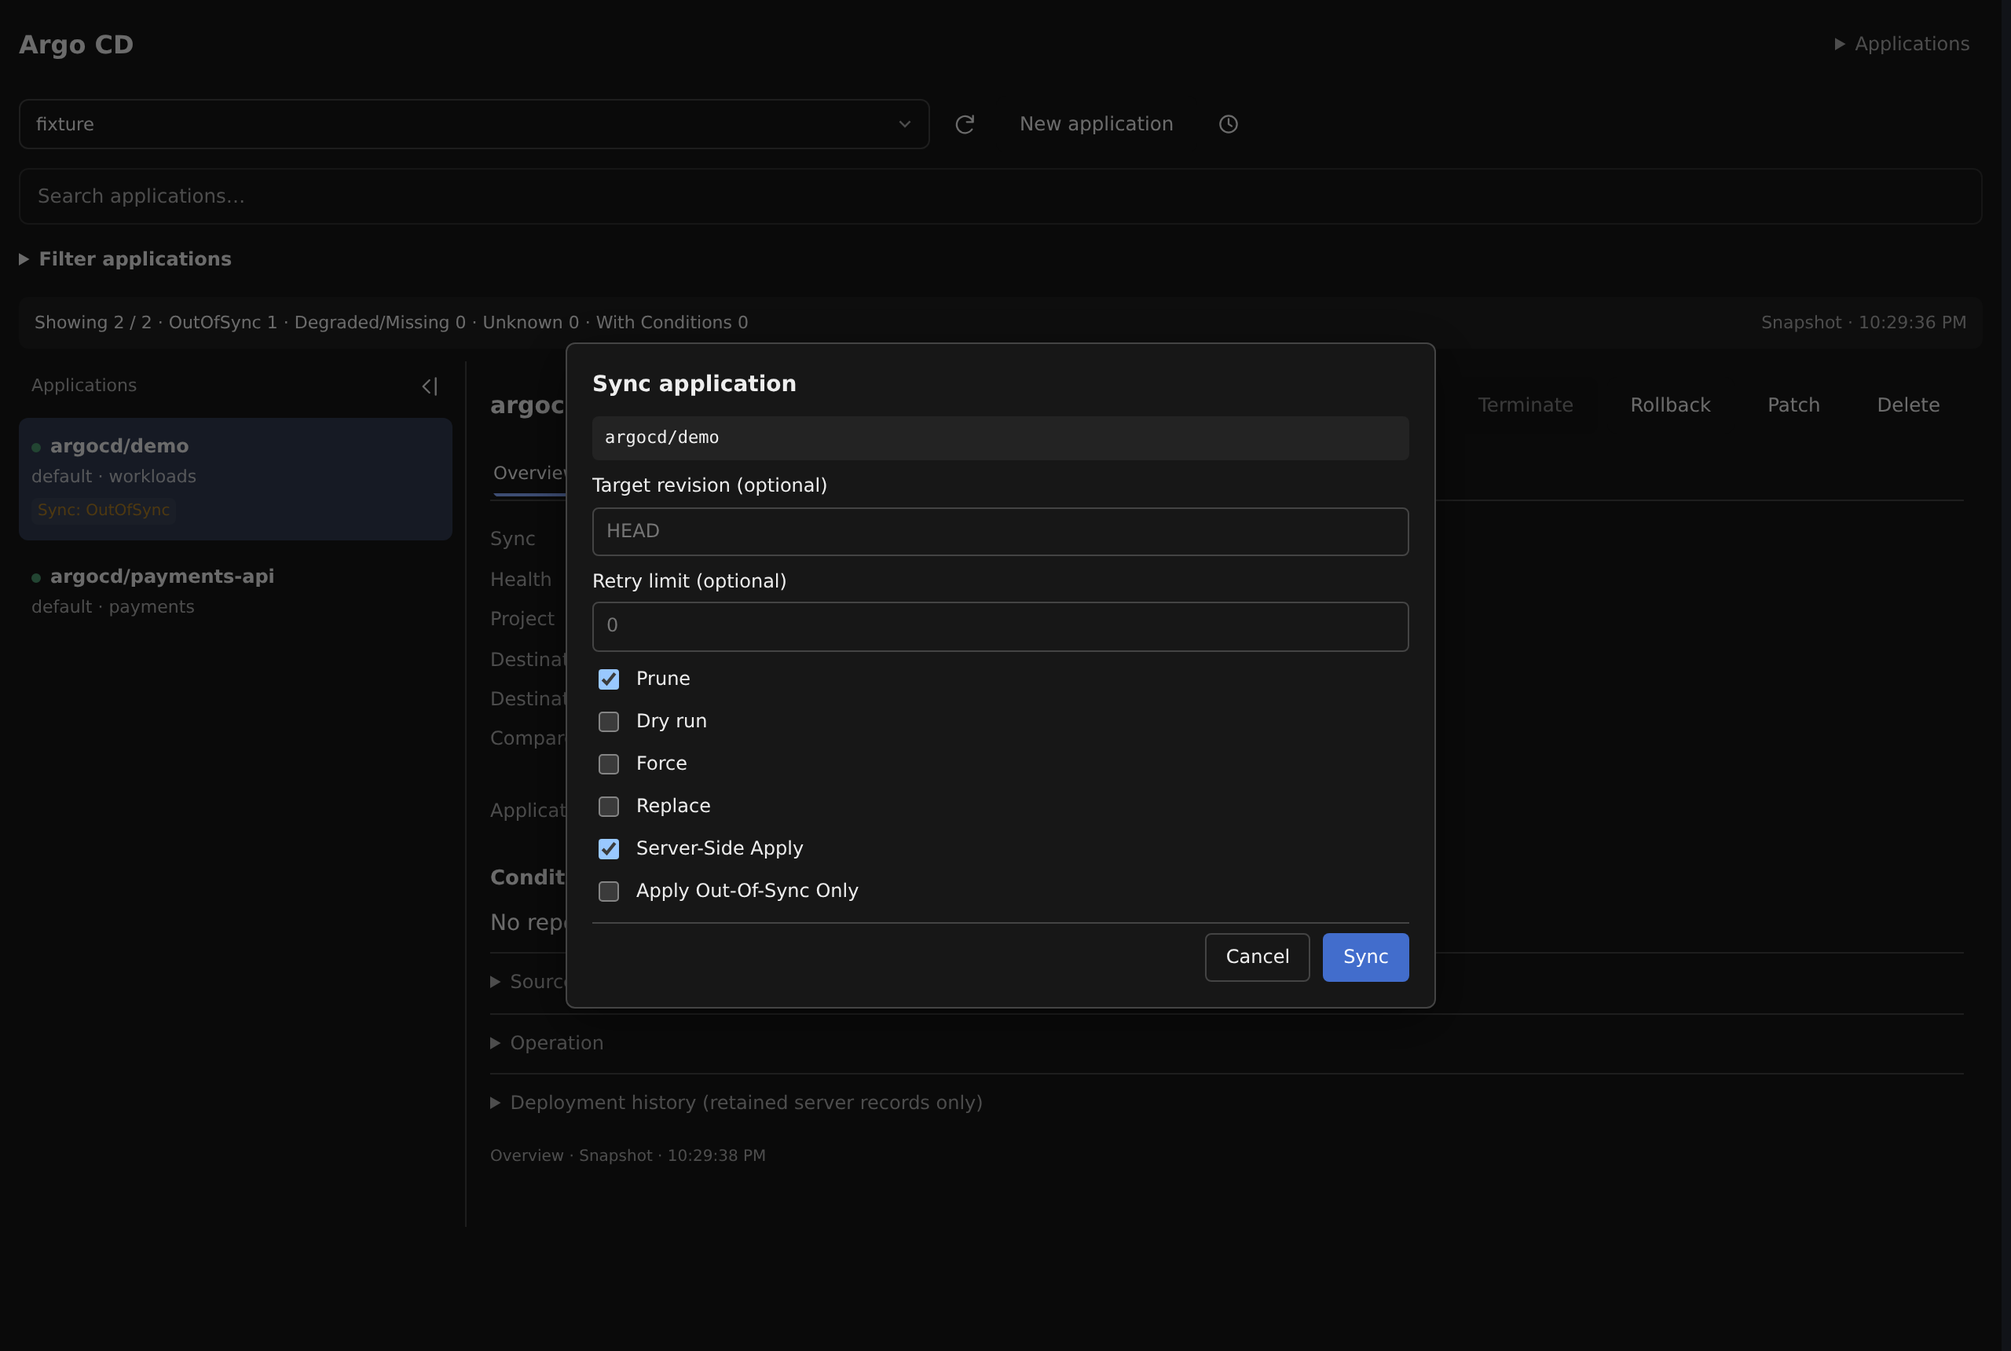
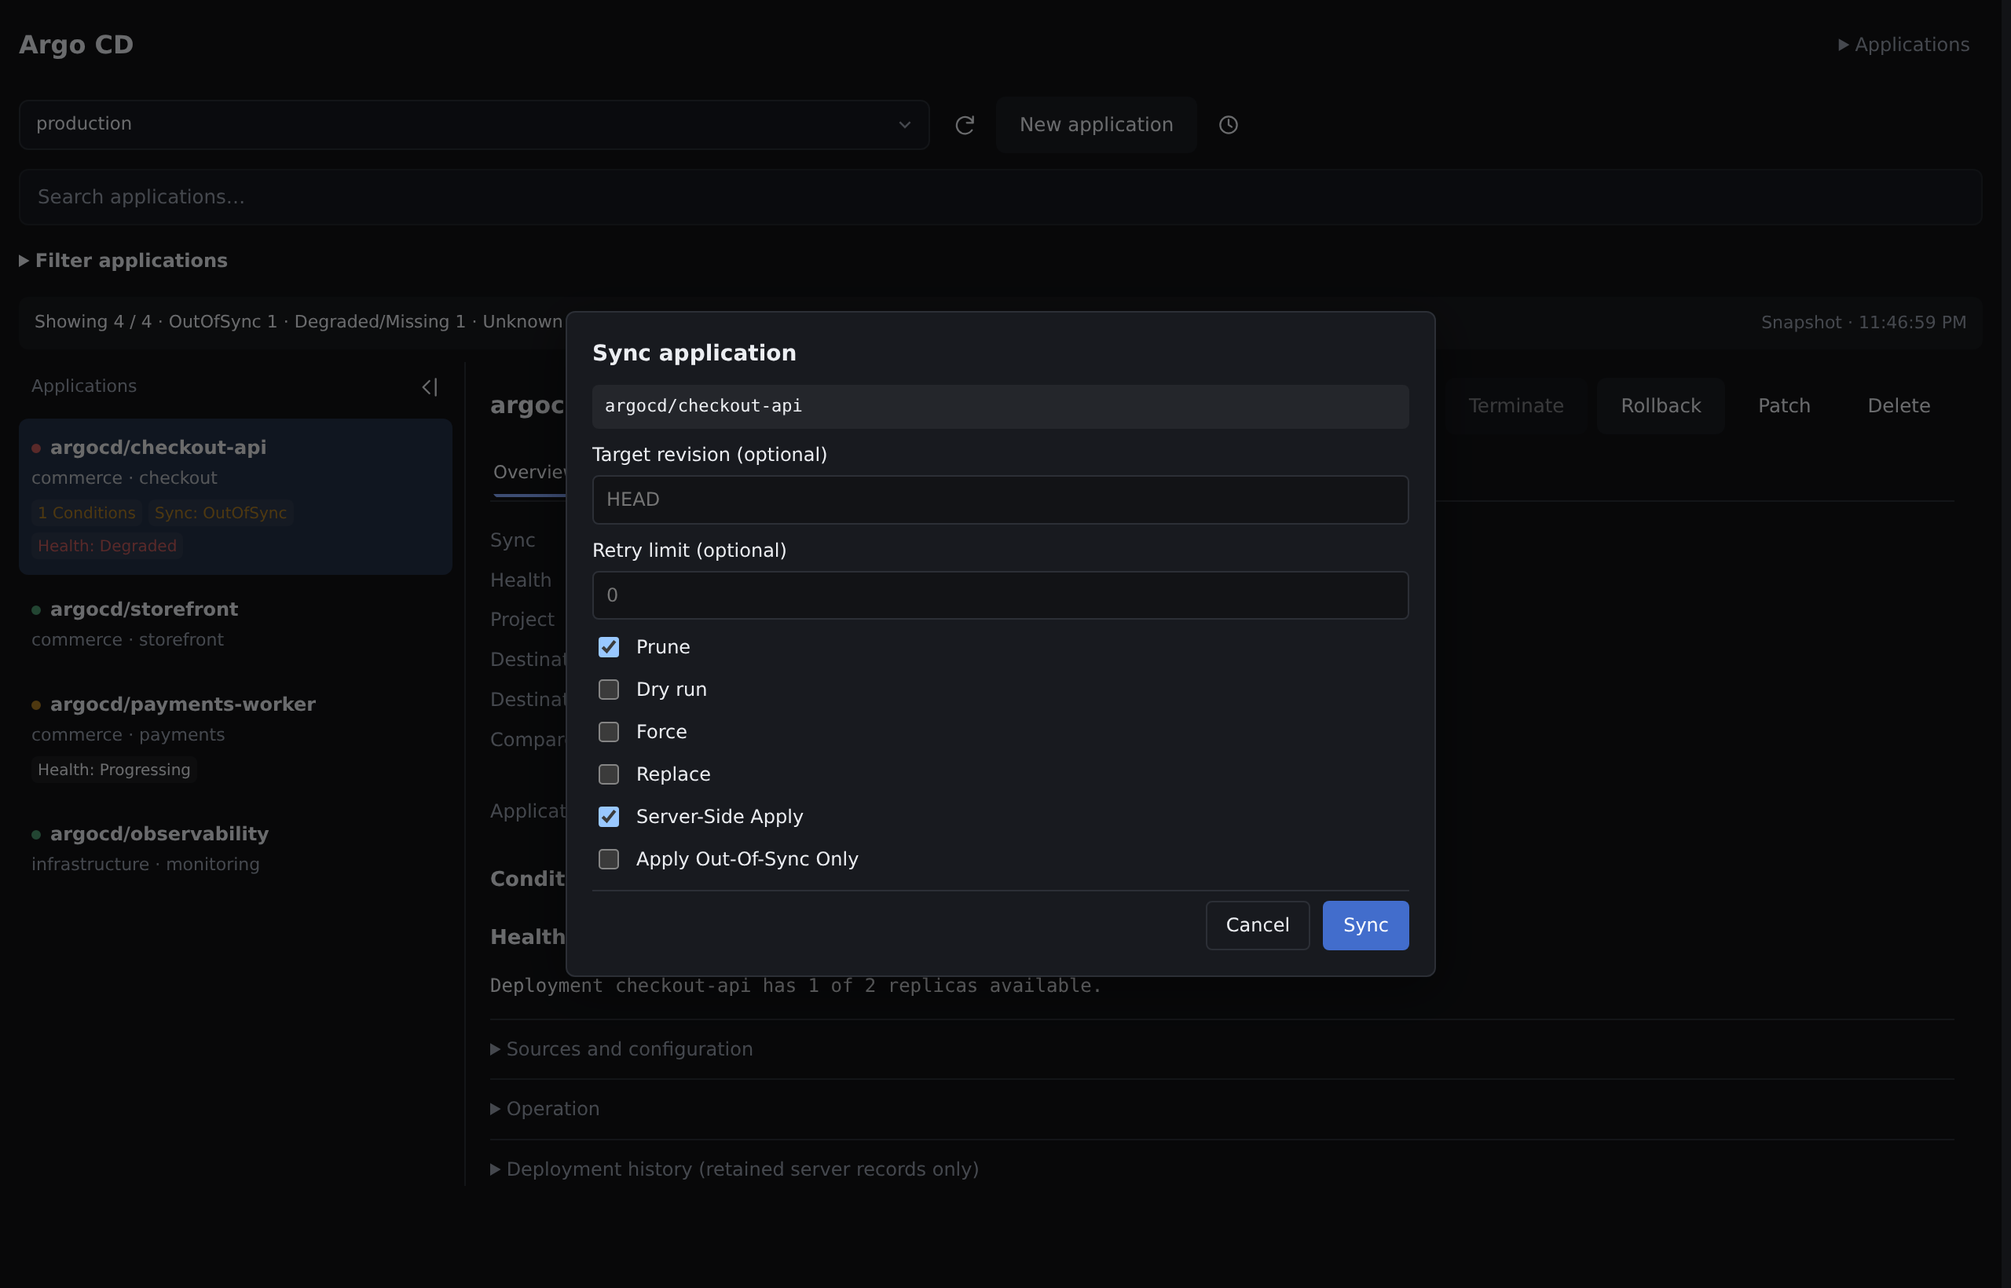
Release openchamber-argocd 1.3.0

diff --git a/scripts/release.ts b/scripts/release.ts
@@ -3,7 +3,7 @@ import { dirname, join, resolve } from 'node:path';
 import { parseManifestJson } from '@openchamber/sdk/schemas';
 import { zipFiles, readReleaseZip } from './archive.js';
 
-export const RELEASE_FILES = ['README.md', 'docs/README.de.md', 'docs/README.fr.md', 'docs/README.nl.md', 'docs/README.zh-CN.md', 'docs/README.zh-TW.md', 'docs/README.uk.md', 'docs/README.es.md', 'docs/README.pt-BR.md', 'docs/README.ko.md', 'docs/README.pl.md', 'docs/README.ja.md', 'docs/README.tr.md', 'docs/README.ar.md', 'docs/README.he.md', 'LICENSE', 'plan.md', 'roadmap.md', 'docs/applications-desktop.png', 'docs/applications-mobile.png', 'docs/validation.md', 'docs/diff-semantics.md', 'docs/operations.md', 'docs/compatibility.md', 'panel/index.html', 'panel/argocd.svg', 'panel/style.css', 'panel/main.js', 'service/main.js', 'THIRD_PARTY_NOTICES.txt'] as const;
+export const RELEASE_FILES = ['README.md', 'docs/README.de.md', 'docs/README.fr.md', 'docs/README.nl.md', 'docs/README.zh-CN.md', 'docs/README.zh-TW.md', 'docs/README.uk.md', 'docs/README.es.md', 'docs/README.pt-BR.md', 'docs/README.ko.md', 'docs/README.pl.md', 'docs/README.ja.md', 'docs/README.tr.md', 'docs/README.ar.md', 'docs/README.he.md', 'LICENSE', 'plan.md', 'roadmap.md', 'docs/screenshots/01-applications-overview.png', 'docs/screenshots/02-sync-dialog.png', 'docs/screenshots/03-resource-actions.png', 'docs/screenshots/04-management.png', 'docs/validation.md', 'docs/diff-semantics.md', 'docs/operations.md', 'docs/compatibility.md', 'panel/index.html', 'panel/argocd.svg', 'panel/style.css', 'panel/main.js', 'service/main.js', 'THIRD_PARTY_NOTICES.txt'] as const;
 const forbidden = [/-----BEGIN [^-]*PRIVATE KEY-----/, /\beyJ[A-Za-z0-9_-]+\.[A-Za-z0-9_-]+\.[A-Za-z0-9_-]+\b/, /synthetic-original|synthetic-rotated|synthetic-argo-token|synthetic-host|smoke-test-only|hidden-values|hidden-parameter|hidden-inline|private-key-sentinel|secret-data-sentinel/];
 export function scanReleaseFile(name: string, bytes: Buffer): void {
   const text = bytes.toString('utf8');

diff --git a/tests/package-output.test.ts b/tests/package-output.test.ts
@@ -104,7 +104,7 @@ test('Git publishing validates committed assets before rebuilding and only prepa
 test('release preserves public package identity, version, description and stable extension panel ID', async () => {
   const { files, basename } = await assembleRelease(); const root = JSON.parse(await readFile('package.json', 'utf8'));
   const packaged = JSON.parse(files.get('package.json')!.toString());
-  assert.equal(basename, 'openchamber-argocd'); assert.equal(root.name, basename); assert.equal(root.version, '1.2.0'); assert.equal(root.private, false);
+  assert.equal(basename, 'openchamber-argocd'); assert.equal(root.name, basename); assert.equal(root.version, '1.3.0'); assert.equal(root.private, false);
   for (const key of ['name', 'version', 'private', 'description', 'license']) assert.deepEqual(packaged[key], root[key]);
   assert.match(root.description, /context switching.*application filtering.*logs.*events.*diffs/);
   assert.equal(packaged.openchamber.contributes.panel.id, 'argocd-observer');

diff --git a/docs/operations.md b/docs/operations.md
@@ -42,7 +42,7 @@ Operational actions are **enabled by default** (`Diagnostics.readOnly = false`) 
 
 ## Acceptance and authorization
 
-The package is **openchamber-argocd 1.2.0**, with private=false and the MIT license. This metadata does not imply npm publication, real host acceptance or production compatibility. Remote acceptance remains **human-agreed skip, not verified**, retained in these documents. The former release.json hash inventory is no longer generated; removing it does not turn build checks into real host acceptance.
+The package is **openchamber-argocd 1.3.0**, with private=false and the MIT license. This metadata does not imply npm publication, real host acceptance or production compatibility. Remote acceptance remains **human-agreed skip, not verified**, retained in these documents. The former release.json hash inventory is no longer generated; removing it does not turn build checks into real host acceptance.
 
 The user explicitly waived remote OpenChamber installation/update, outer authorization/approval, pause/uninstall, instance switching, and lifecycle acceptance. Record these as **human-agreed skip, not verified** and do not request a remote instance as a blocker. Other uncovered Argo/platform behaviors are not automatically waived.
 
@@ -68,7 +68,7 @@ There is no version/hash suffix, checksum sidecar or release.json hash inventory
 
 Existing hash-named historical directories/ZIPs/checksum files and unrelated dist content are **not** automatically deleted: an installed extension may still reference an old directory. After explicitly replacing that installation, an operator may separately remove unused historical outputs. The new build never creates more of them. Replacing files is not an automatic host re-enable/reinstall or a filesystem-wide atomic transaction.
 
-Exactly 31 allowlisted files ship in the directory/ZIP: minimal manifest, bundled JS, HTML/CSS/Argo SVG, seven English Markdown files, 14 translated README files, two English application screenshots (desktop and mobile), MIT LICENSE and runtime/icon notices. No source/tests/scripts/node_modules/config/credentials/logs ship in those outputs. Catalogs are bundled into JS. THIRD_PARTY_NOTICES.txt is generated at the repository root as well, so Git URL installs include dependency/icon licenses without a target build. The application's own license is MIT; see the separate LICENSE file.
+Exactly 33 allowlisted files ship in the directory/ZIP: minimal manifest, bundled JS, HTML/CSS/Argo SVG, seven English Markdown files, 14 translated README files, four English UI screenshots (applications overview, sync dialog, resource actions, and management), MIT LICENSE and runtime/icon notices. No source/tests/scripts/node_modules/config/credentials/logs ship in those outputs. Catalogs are bundled into JS. THIRD_PARTY_NOTICES.txt is generated at the repository root as well, so Git URL installs include dependency/icon licenses without a target build. The application's own license is MIT; see the separate LICENSE file.
 
 ## Installation sources
 

diff --git a/docs/validation.md b/docs/validation.md
@@ -324,3 +324,9 @@ Remote OpenChamber acceptance remains **human-agreed skip, not verified**. No re
 - The user authorized publishing a new version after reviewing the deployment diagnostics and ReplicaSet navigation changes. Version 1.2.0 retains the package/panel identity and existing MIT license; no npm publication, repository visibility change or running-extension update is requested.
 - The release adds generic related-resource events with untranslated upstream content, explicit aggregate counts/partial failures, Deployment progress, visible application sync retry counts, optional visible-only detail refresh, rollback-aware current-first ReplicaSet sorting and collapsed confirmed-empty history.
 - Local preparation uses `pnpm release:prepare`. The matching v1.2.0 tag must pass GitHub CI; inspect the CI-built ZIP and release metadata before publishing the workflow-created draft. The synthetic diagnostics validation above does not establish real host/cluster acceptance; the existing remote-testing waiver remains unchanged.
+
+## Authorized 1.3.0 GitHub publication preparation
+
+- The user authorized publishing version 1.3.0 with updated 2x2 desktop UI screenshots rendered against a synthetic dummy Argo CD server (removing the mobile screenshot). Version 1.3.0 retains the package/panel identity and existing MIT license; no npm publication or repository visibility change is requested.
+- The release ships full RBAC-governed Argo CD operational capabilities enabled by default (Sync, Refresh / Hard Refresh, Terminate, Rollback, Resource Actions V2 with V1 fallback, Patch, Create / Delete Application & Resource, and Management actions for ApplicationSets, Projects, Repositories, and Clusters), complete 15-locale translations, and four updated English UI screenshots in a 2x2 grid.
+- Local preparation uses `pnpm release:prepare` and `pnpm package`. The matching v1.3.0 tag must pass GitHub CI; remote OpenChamber acceptance remains **human-agreed skip, not verified**.

diff --git a/docs/README.uk.md b/docs/README.uk.md
@@ -30,13 +30,11 @@
 
 Англомовний інтерфейс із демонстраційними даними.
 
-**Комп'ютер — список застосунків і огляд**
-
-![Список застосунків Argo CD і огляд на комп'ютері](applications-desktop.png)
-
-**Мобільний пристрій — список застосунків**
-
-![Список застосунків Argo CD на мобільному пристрої](applications-mobile.png)
+| Огляд застосунків і дії | Діалог синхронізації застосунку |
+| :---: | :---: |
+| ![Огляд застосунків і дії](screenshots/01-applications-overview.png) | ![Діалог синхронізації застосунку](screenshots/02-sync-dialog.png) |
+| **Дерево ресурсів і дії з ресурсами** | **Керування (Проєкти, Кластери, Репозиторії)** |
+| ![Дерево ресурсів і дії з ресурсами](screenshots/03-resource-actions.png) | ![Керування (Проєкти, Кластери, Репозиторії)](screenshots/04-management.png) |
 
 ## Можливості
 

diff --git a/docs/README.ar.md b/docs/README.ar.md
@@ -30,13 +30,11 @@
 
 واجهة باللغة الإنجليزية مع بيانات توضيحية.
 
-**سطح المكتب — قائمة التطبيقات ونظرة عامة**
-
-![قائمة تطبيقات Argo CD ونظرة عامة على سطح المكتب](applications-desktop.png)
-
-**الهاتف — قائمة التطبيقات**
-
-![قائمة تطبيقات Argo CD على الهاتف](applications-mobile.png)
+| نظرة عامة على التطبيقات والإجراءات | نافذة مزامنة التطبيق |
+| :---: | :---: |
+| ![نظرة عامة على التطبيقات والإجراءات](screenshots/01-applications-overview.png) | ![نافذة مزامنة التطبيق](screenshots/02-sync-dialog.png) |
+| **شجرة الموارد وإجراءات الموارد** | **الإدارة (المشاريع والمجموعات والمستودعات)** |
+| ![شجرة الموارد وإجراءات الموارد](screenshots/03-resource-actions.png) | ![الإدارة (المشاريع والمجموعات والمستودعات)](screenshots/04-management.png) |
 
 ## الميزات
 

diff --git a/docs/compatibility.md b/docs/compatibility.md
@@ -2,7 +2,7 @@
 
 ## Declared scope
 
-Current development baseline: Node 22+, pnpm 10.30.3, pinned `@openchamber/sdk` 2.2.0. OpenChamber `>=2.2.0` is a provisional install floor, not proof that all later versions or remote platforms work. Package `openchamber-argocd` is version `1.2.0` with `private: false`; the metadata change does not establish production compatibility or imply npm publication.
+Current development baseline: Node 22+, pnpm 10.30.3, pinned `@openchamber/sdk` 2.2.0. OpenChamber `>=2.2.0` is a provisional install floor, not proof that all later versions or remote platforms work. Package `openchamber-argocd` is version `1.3.0` with `private: false`; the metadata change does not establish production compatibility or imply npm publication.
 
 The user explicitly agreed to skip remote OpenChamber tests. Their status is **human-agreed skip, not verified**, not passed. A separately authorized local read-only preflight passed using existing CLI/current-context credentials without deployment/configuration changes, login, or renewal. Results do not extend to other contexts or authentication methods.
 

diff --git a/docs/README.he.md b/docs/README.he.md
@@ -30,13 +30,11 @@
 
 ממשק באנגלית עם נתונים לדוגמה.
 
-**מחשב — רשימת יישומים וסקירה כללית**
-
-![רשימת יישומי Argo CD וסקירה כללית במחשב](applications-desktop.png)
-
-**נייד — רשימת יישומים**
-
-![רשימת יישומי Argo CD בנייד](applications-mobile.png)
+| סקירת יישומים ופעולות | חלון סנכרון יישום |
+| :---: | :---: |
+| ![סקירת יישומים ופעולות](screenshots/01-applications-overview.png) | ![חלון סנכרון יישום](screenshots/02-sync-dialog.png) |
+| **עץ משאבים ופעולות משאבים** | **ניהול (פרויקטים, אשכולות, מאגרים)** |
+| ![עץ משאבים ופעולות משאבים](screenshots/03-resource-actions.png) | ![ניהול (פרויקטים, אשכולות, מאגרים)](screenshots/04-management.png) |
 
 ## יכולות
 

diff --git a/docs/README.fr.md b/docs/README.fr.md
@@ -30,13 +30,11 @@ Vous pouvez aussi télécharger **openchamber-argocd.zip** depuis les [Releases]
 
 Interface en anglais avec des données d'exemple.
 
-**Ordinateur — liste des applications et vue d'ensemble**
-
-![Liste des applications Argo CD et vue d'ensemble sur ordinateur](applications-desktop.png)
-
-**Mobile — liste des applications**
-
-![Liste des applications Argo CD sur mobile](applications-mobile.png)
+| Vue d’ensemble et actions d’application | Dialogue de synchronisation |
+| :---: | :---: |
+| ![Vue d’ensemble et actions d’application](screenshots/01-applications-overview.png) | ![Dialogue de synchronisation](screenshots/02-sync-dialog.png) |
+| **Arborescence et actions de ressources** | **Gestion (Projets, Clusters, Dépôts)** |
+| ![Arborescence et actions de ressources](screenshots/03-resource-actions.png) | ![Gestion (Projets, Clusters, Dépôts)](screenshots/04-management.png) |
 
 ## Fonctionnalités
 

diff --git a/docs/README.pt-BR.md b/docs/README.pt-BR.md
@@ -30,13 +30,11 @@ Você também pode baixar **openchamber-argocd.zip** em [Releases](https://githu
 
 Interface em inglês com dados de exemplo.
 
-**Desktop — lista de aplicações e visão geral**
-
-![Lista de aplicações do Argo CD e visão geral no desktop](applications-desktop.png)
-
-**Celular — lista de aplicações**
-
-![Lista de aplicações do Argo CD no celular](applications-mobile.png)
+| Visão geral e ações de aplicações | Diálogo de sincronização |
+| :---: | :---: |
+| ![Visão geral e ações de aplicações](screenshots/01-applications-overview.png) | ![Diálogo de sincronização](screenshots/02-sync-dialog.png) |
+| **Árvore e ações de recursos** | **Gerenciamento (Projetos, Clusters, Repositórios)** |
+| ![Árvore e ações de recursos](screenshots/03-resource-actions.png) | ![Gerenciamento (Projetos, Clusters, Repositórios)](screenshots/04-management.png) |
 
 ## Funcionalidades
 

diff --git a/docs/README.es.md b/docs/README.es.md
@@ -30,13 +30,11 @@ También puedes descargar **openchamber-argocd.zip** desde [Releases](https://gi
 
 Interfaz en inglés con datos de ejemplo.
 
-**Escritorio — lista de aplicaciones y vista general**
-
-![Lista de aplicaciones de Argo CD y vista general en escritorio](applications-desktop.png)
-
-**Móvil — lista de aplicaciones**
-
-![Lista de aplicaciones de Argo CD en móvil](applications-mobile.png)
+| Vista general y acciones de aplicaciones | Diálogo de sincronización |
+| :---: | :---: |
+| ![Vista general y acciones de aplicaciones](screenshots/01-applications-overview.png) | ![Diálogo de sincronización](screenshots/02-sync-dialog.png) |
+| **Árbol y acciones de recursos** | **Gestión (Proyectos, Clústeres, Repositorios)** |
+| ![Árbol y acciones de recursos](screenshots/03-resource-actions.png) | ![Gestión (Proyectos, Clústeres, Repositorios)](screenshots/04-management.png) |
 
 ## Funciones
 

diff --git a/docs/README.ja.md b/docs/README.ja.md
@@ -30,13 +30,11 @@
 
 サンプルデータを使用した英語の画面です。
 
-**デスクトップ — アプリケーション一覧と概要**
-
-![デスクトップでの Argo CD アプリケーション一覧と概要](applications-desktop.png)
-
-**モバイル — アプリケーション一覧**
-
-![モバイルでの Argo CD アプリケーション一覧](applications-mobile.png)
+| アプリケーション概要と操作 | Sync ダイアログ |
+| :---: | :---: |
+| ![アプリケーション概要と操作](screenshots/01-applications-overview.png) | ![Sync ダイアログ](screenshots/02-sync-dialog.png) |
+| **リソースツリーとリソース操作** | **管理（Projects / Clusters / Repositories）** |
+| ![リソースツリーとリソース操作](screenshots/03-resource-actions.png) | ![管理（Projects / Clusters / Repositories）](screenshots/04-management.png) |
 
 ## 機能
 
